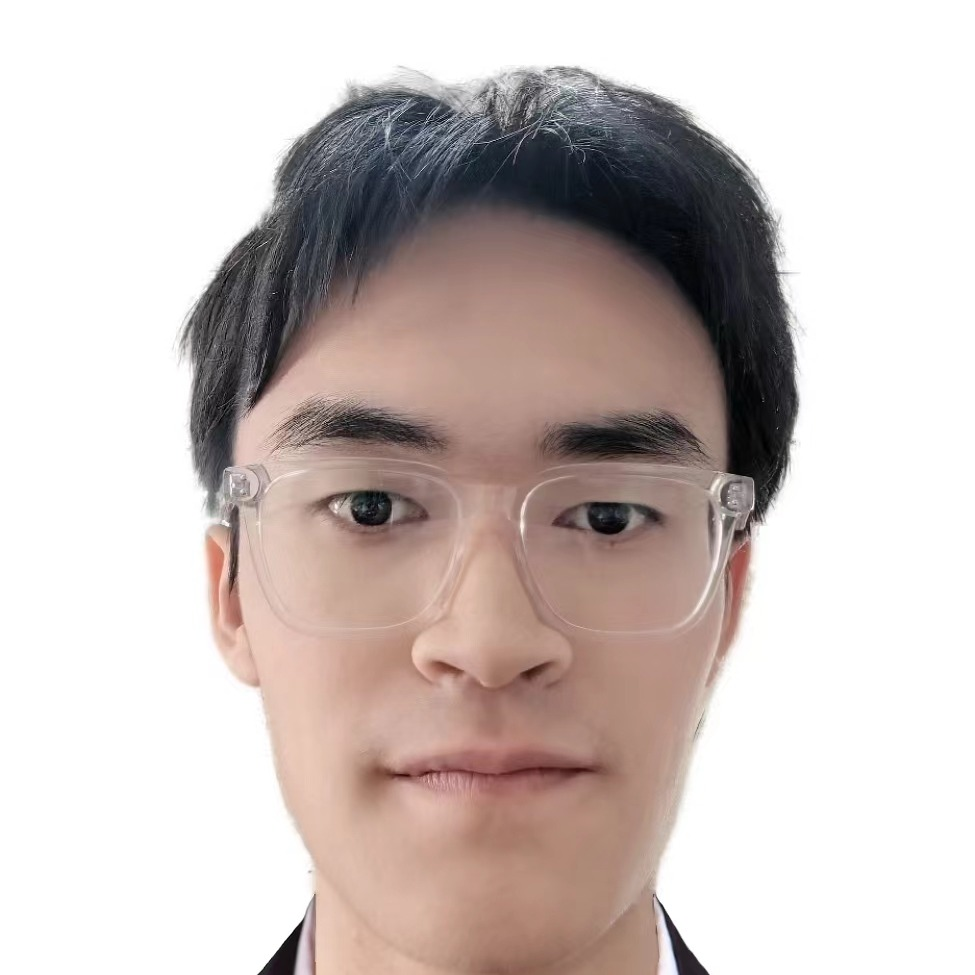
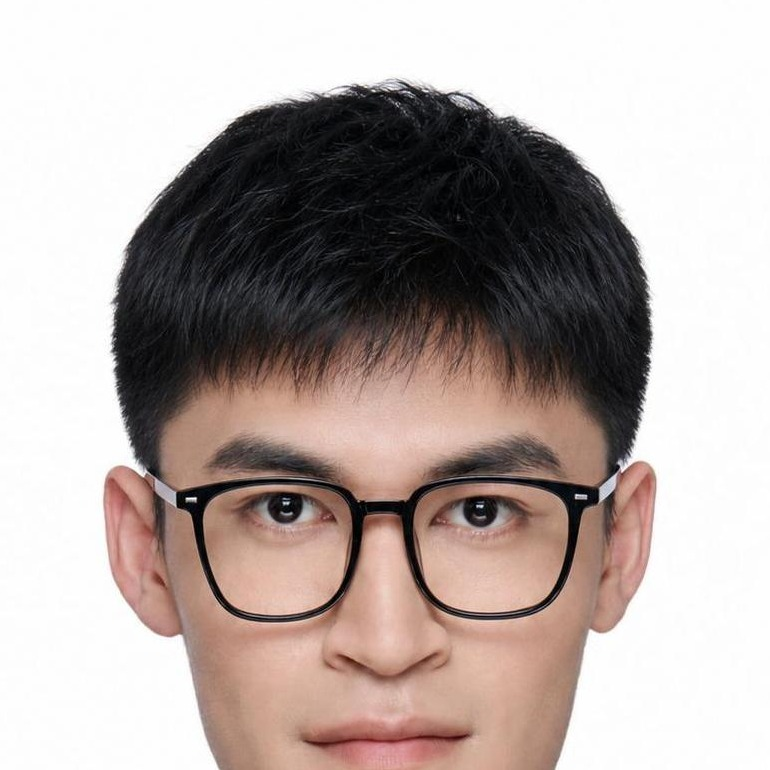
更换头像照片,新增获奖推文三链接

diff --git a/_pages/about.md b/_pages/about.md
@@ -15,7 +15,7 @@ redirect_from:
 # News
 - [2026.09] 进入复旦大学计算与智能创新学院攻读计算机科学与技术硕士,同时加入上海创智学院
 - [2026.06] 本科毕业于北京邮电大学国际学院物联网工程,保研排名 3/182(前 1.6%)
-- [2024.12] 第八届全国大学生集成电路创新创业大赛"算能杯"获**全国企业大奖(全国第一)**,奖金 10000 元([获奖推文一](https://mp.weixin.qq.com/s/TXCH_aqigV4EbfU-9PQt_g)、[获奖推文二](https://is.bupt.edu.cn/info/1031/4456.htm))
+- [2024.12] 第八届全国大学生集成电路创新创业大赛"算能杯"获**全国企业大奖(全国第一)**,奖金 10000 元([获奖推文一](https://mp.weixin.qq.com/s/TXCH_aqigV4EbfU-9PQt_g)、[获奖推文二](https://is.bupt.edu.cn/info/1031/4456.htm)、[获奖推文三](https://mp.weixin.qq.com/s/SBcCPu9yA5Rw5rIfBhJAVQ))
 
 # Education
 - **复旦大学**  
